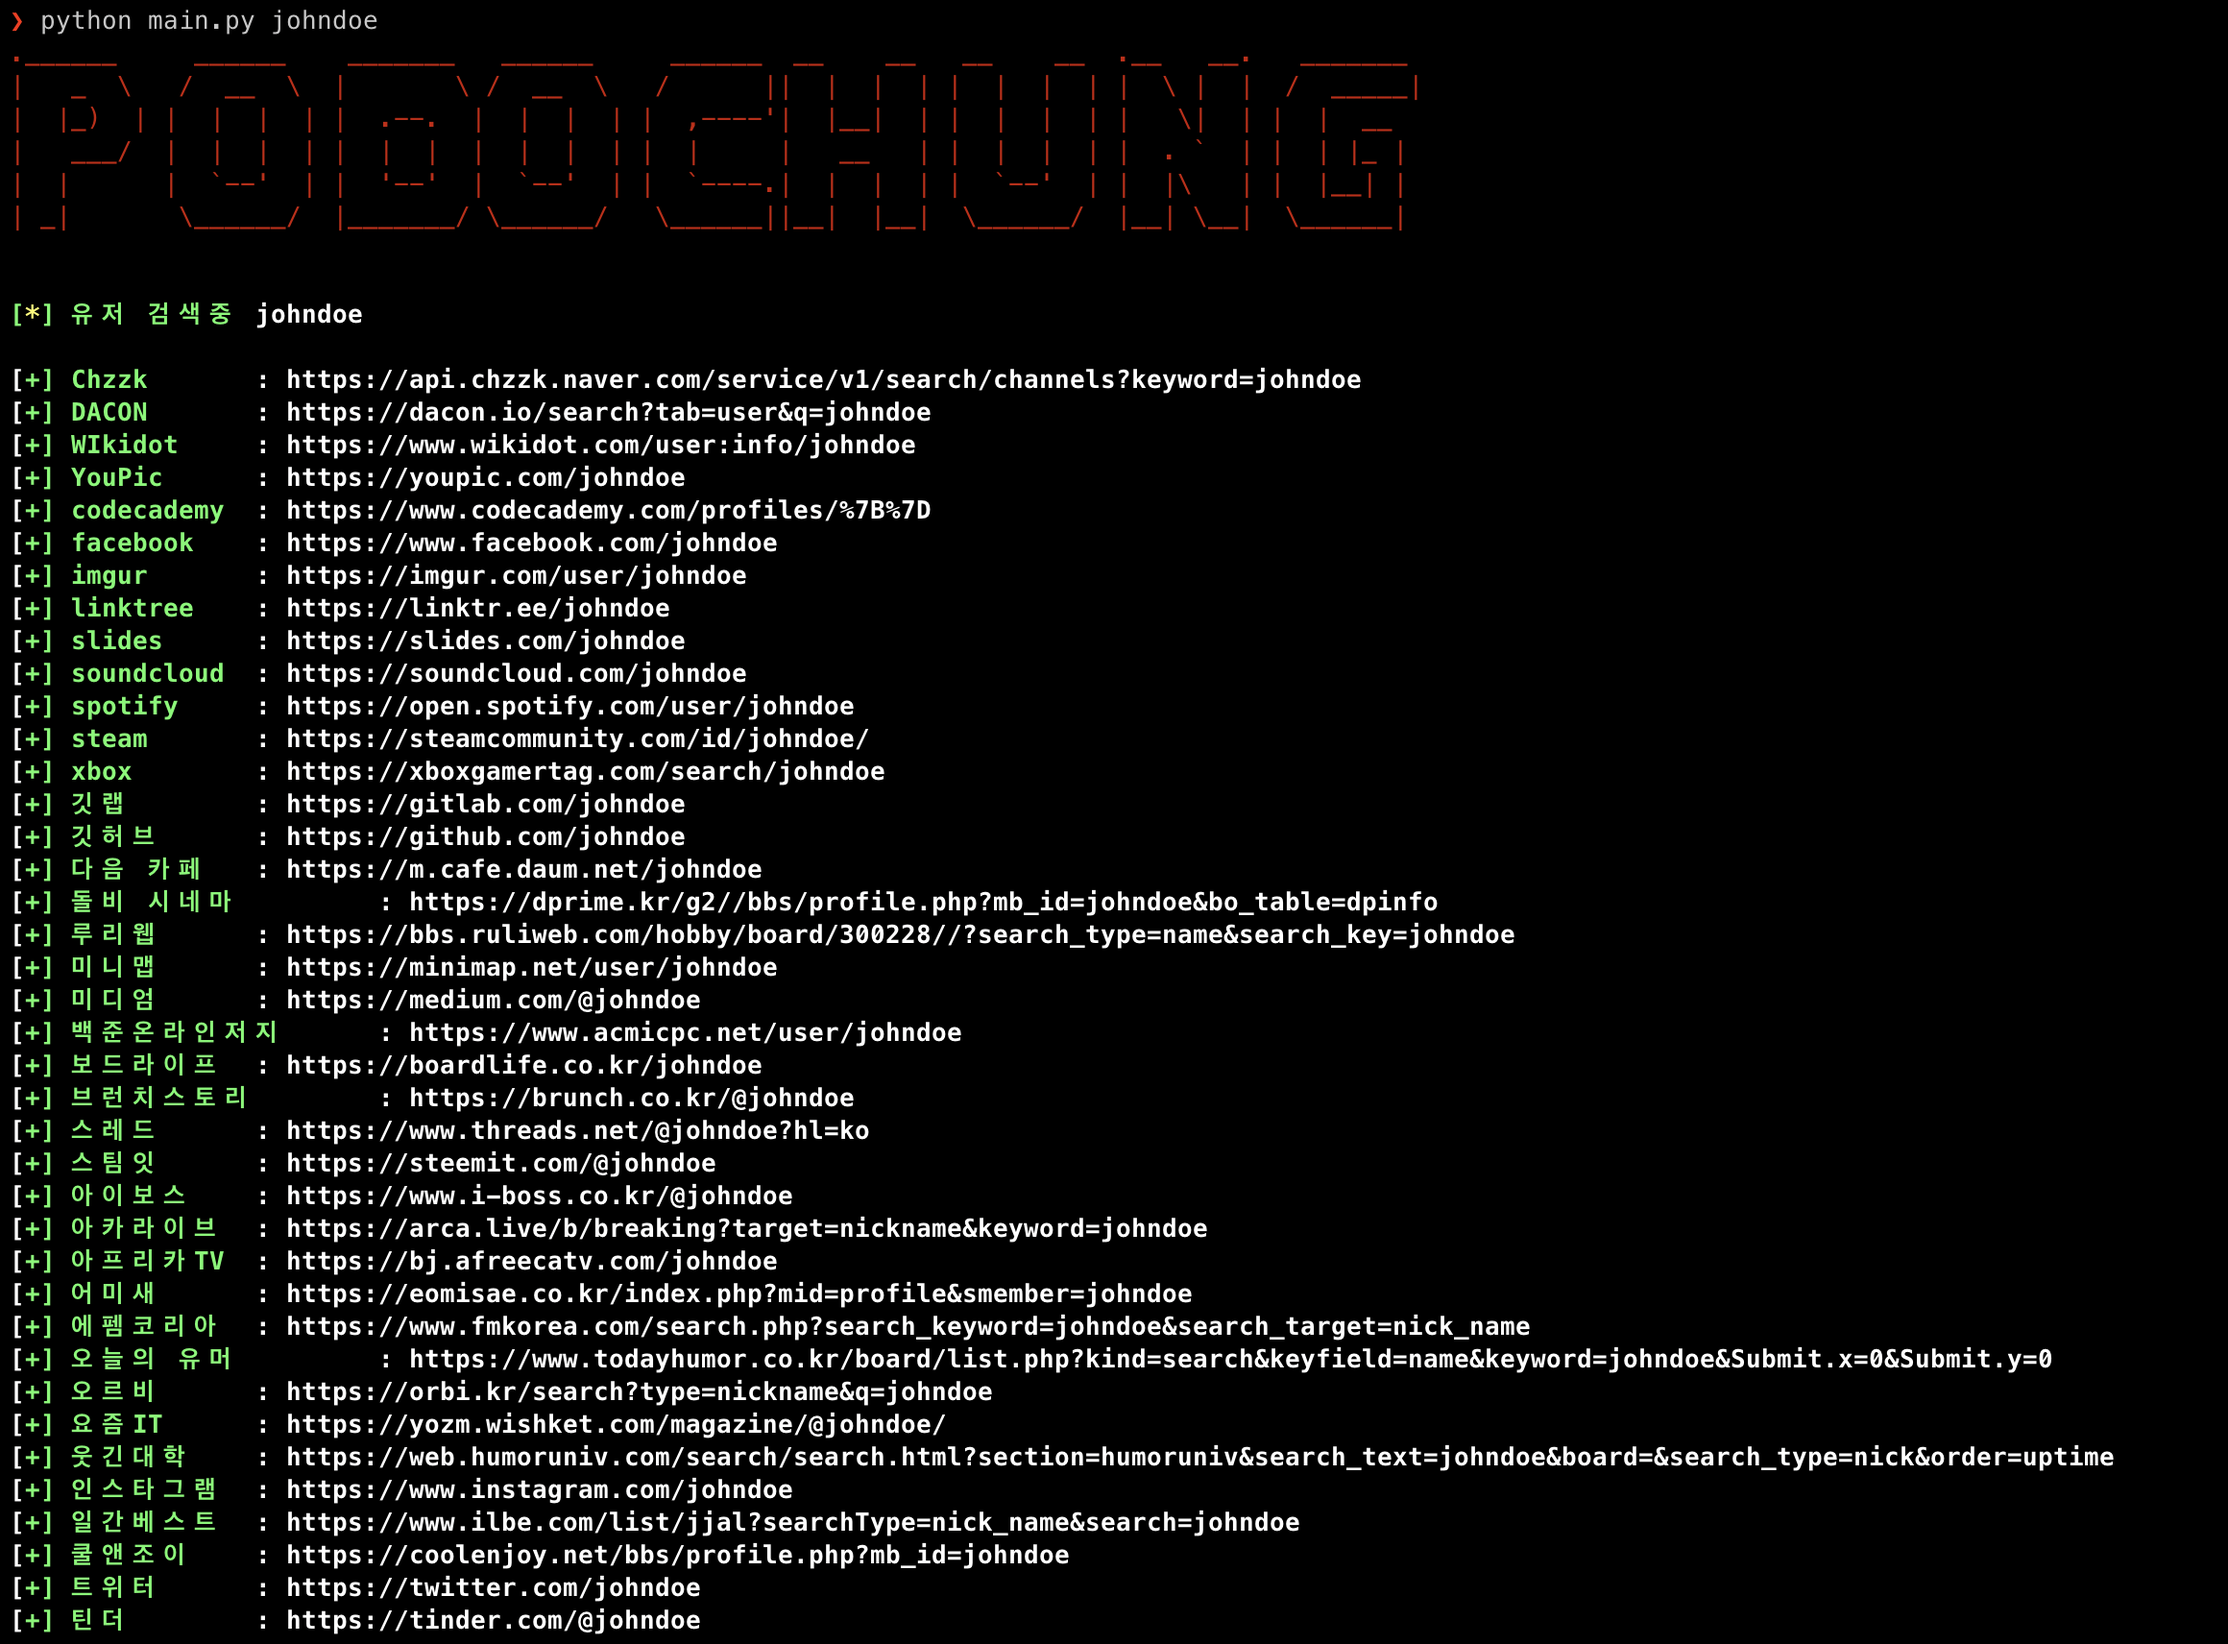
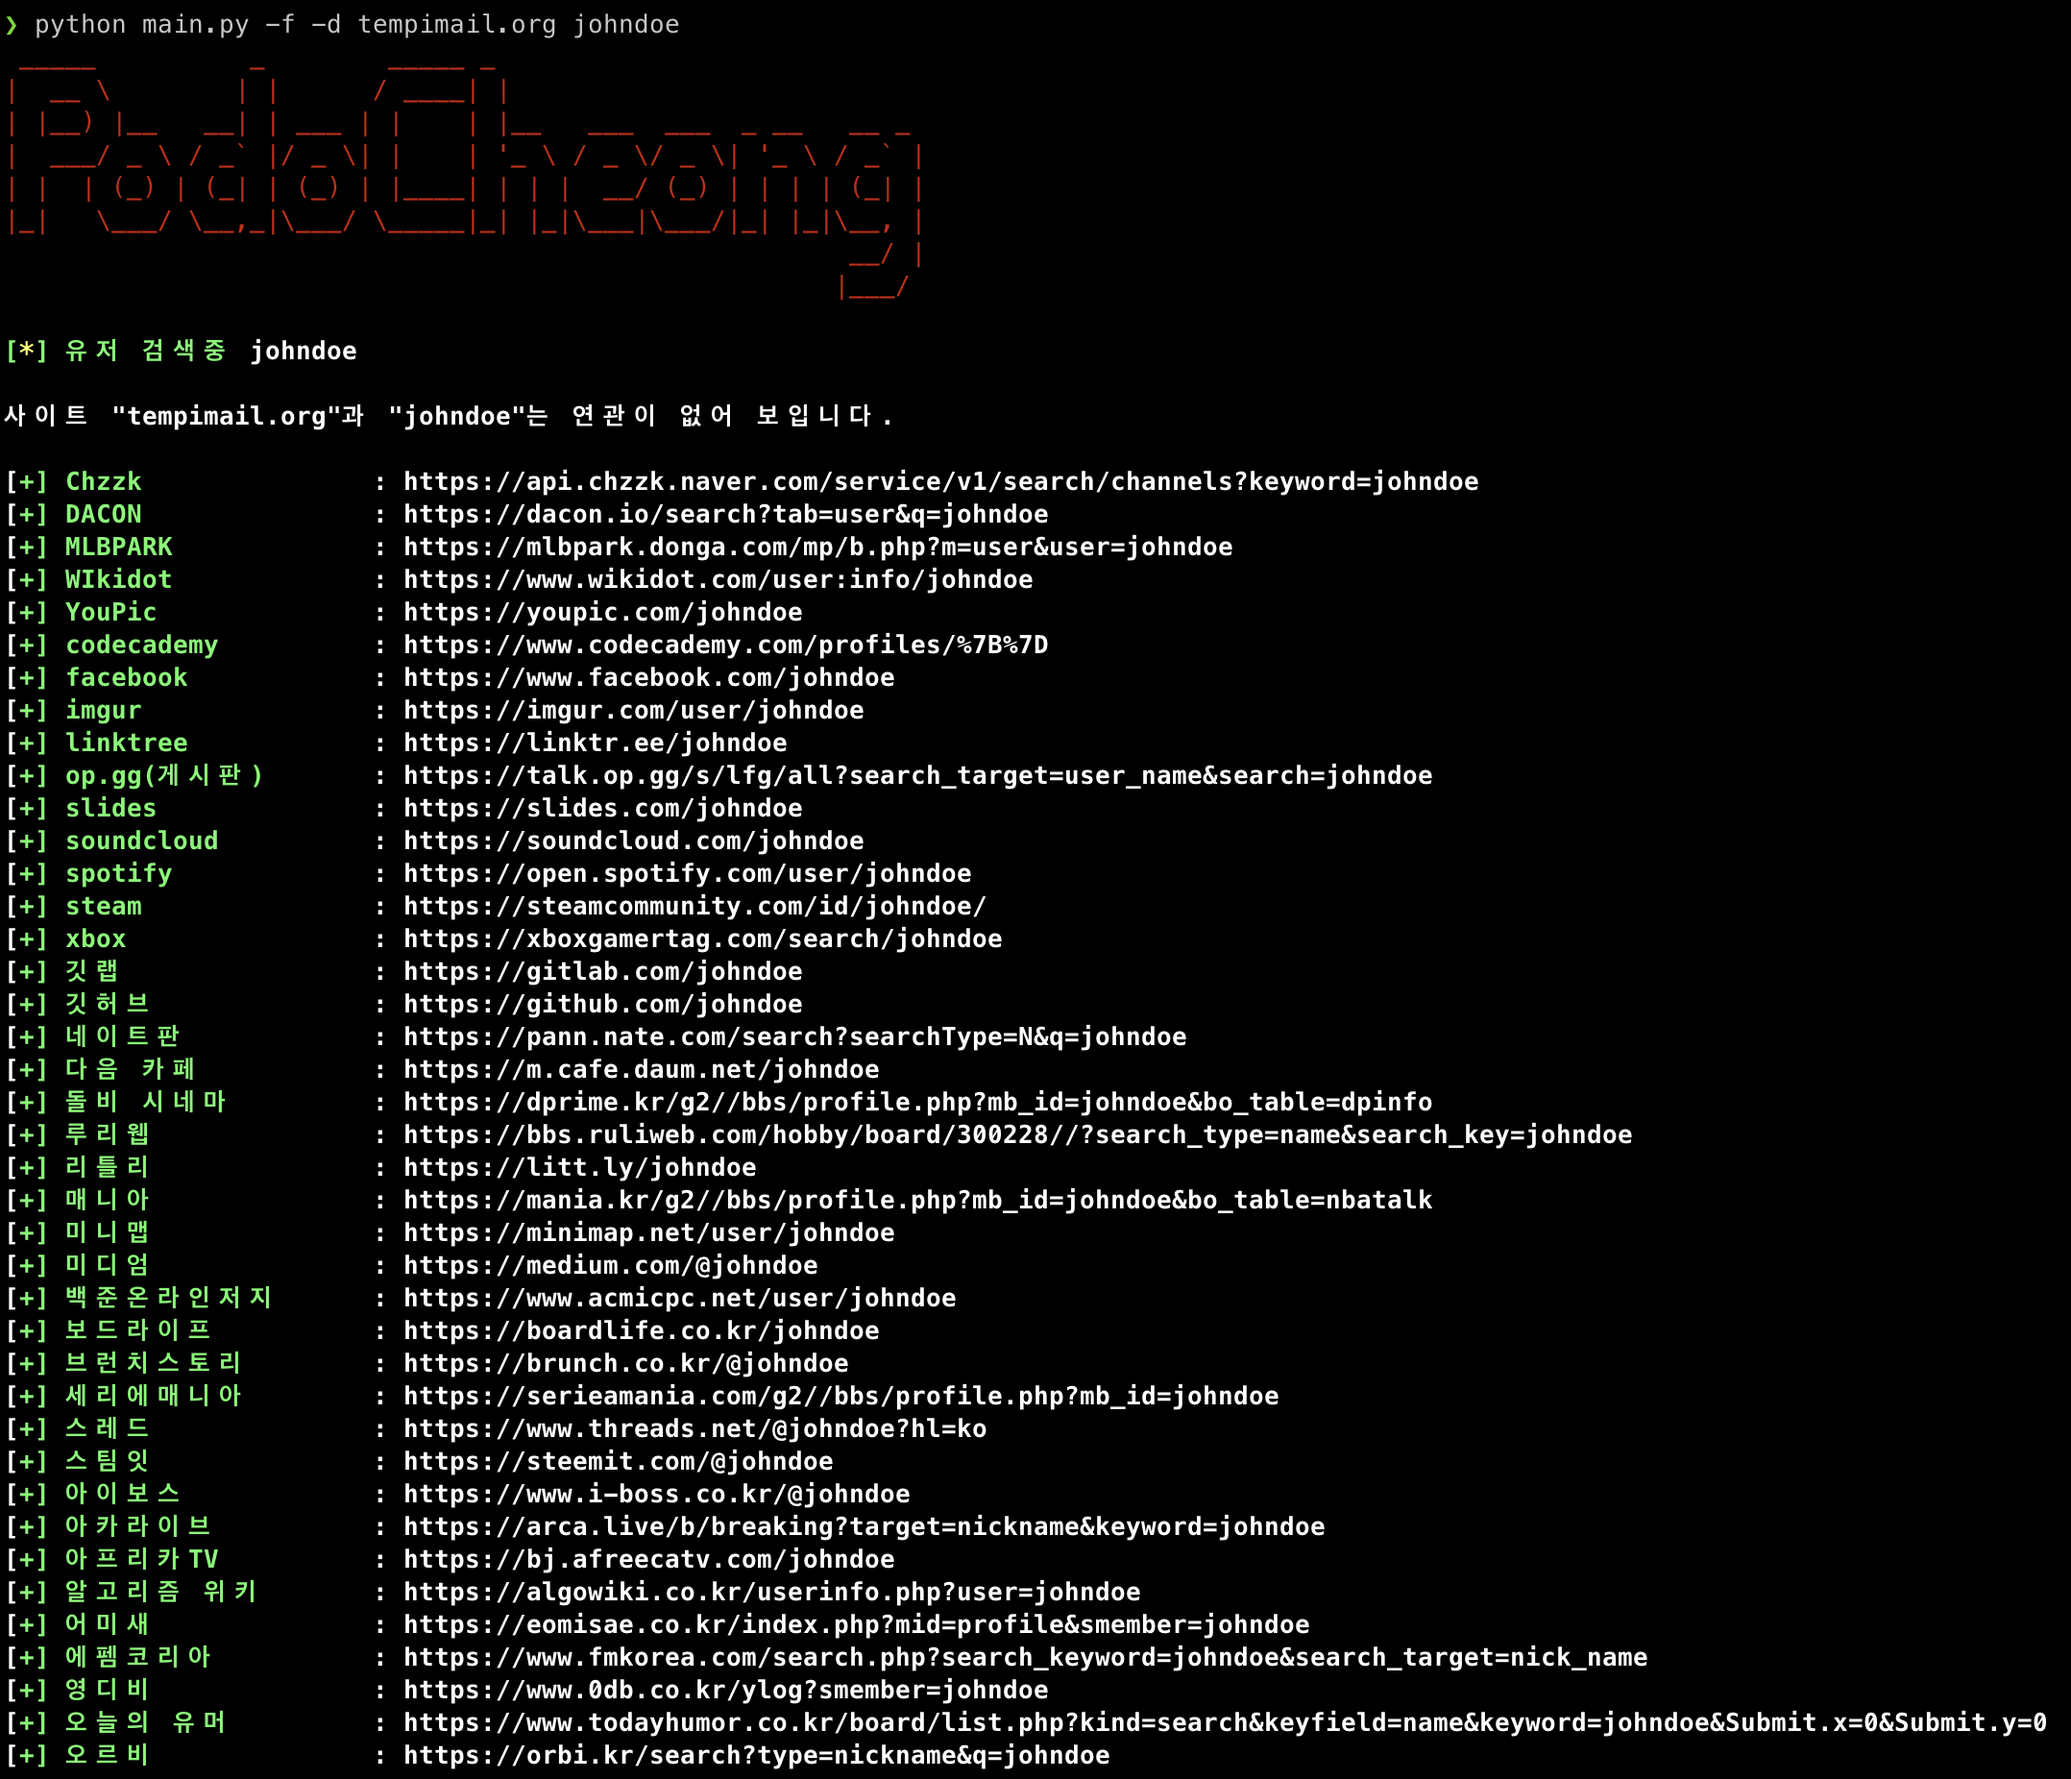
README edit     add gif main.py     podochung -> podocheong

diff --git a/main.py b/main.py
@@ -109,7 +109,7 @@ def draw_histogram():
 
 
 def main():
-    banner("PodoChung")
+    banner("PodoCheong")
 
     check_user()
 

diff --git a/README.md b/README.md
@@ -9,7 +9,7 @@
 1. git clone
     ```bash
     git clone https://github.com/Grape-Office/Grape-Project.git
-    cd PODOCHEONG
+    cd Podocheong
     ```
 2. command
     ```bash
@@ -35,8 +35,10 @@
 
     오탐방지 기능을 끄고, "domain.com"의 도메인 정보와 유저명 "johndoe"를 비교하려면 다음과 같이 실행합니다.
     ```bash
-    python main.py -o -f -d domain.com johndoe
+    python main.py -f -d domain.com johndoe
     ```
+
+    ![mov](./mov_sample.gif)
 
 # Docker
 1. Docker Image build
